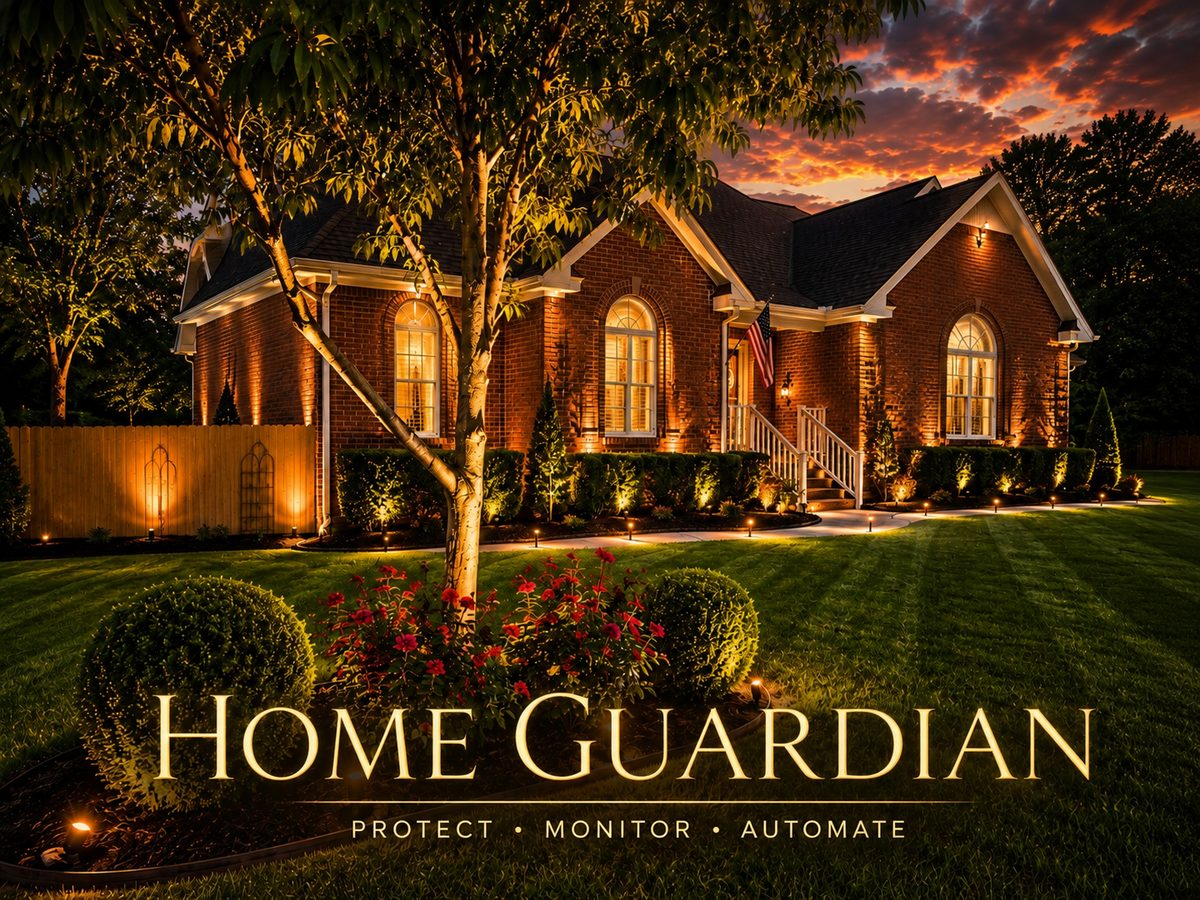
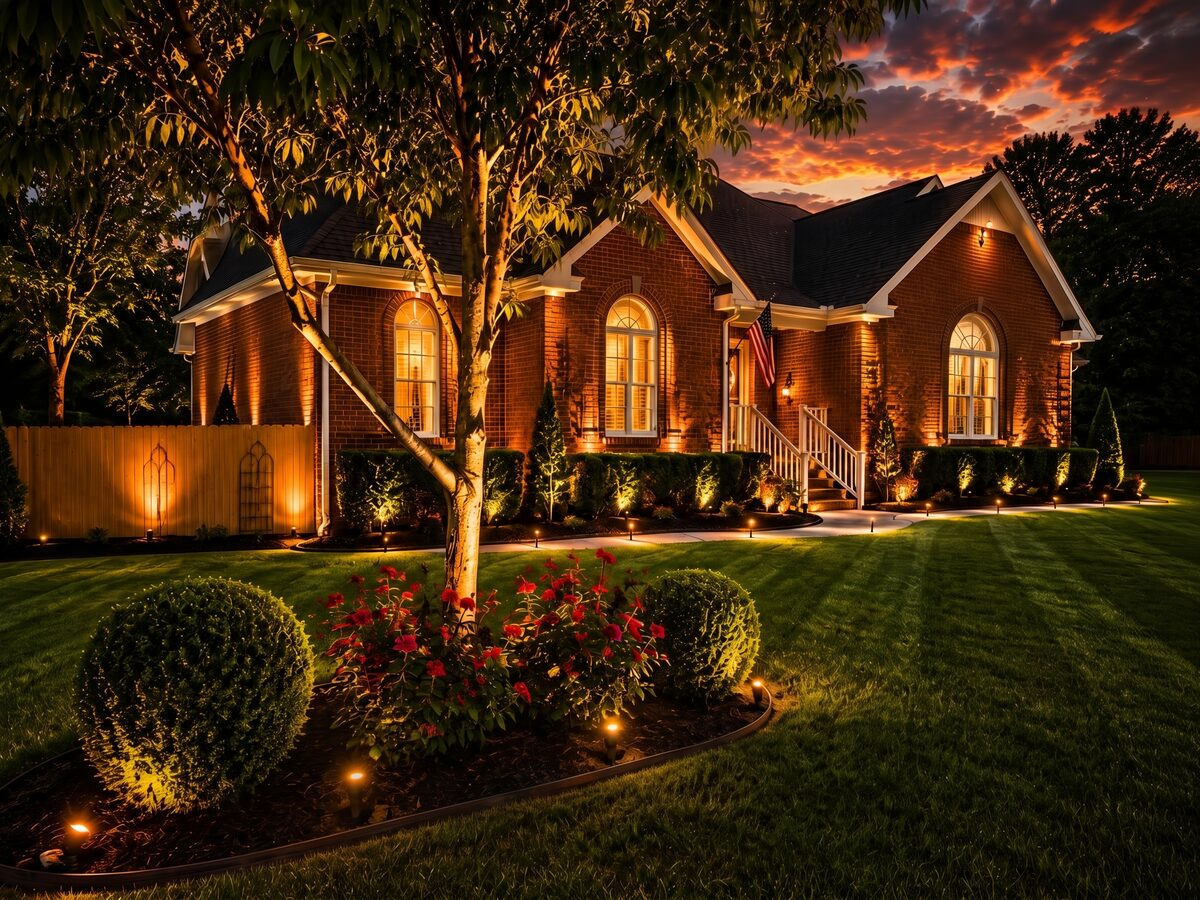
Strip the fake marketing overlays from five section heroes
Jeff: "I hate those logos that are on the picture. I don't mind the text
but it looks awful with them right next to the real icons."

Same root cause as the utility photos. Every one of these heroes was an AI
marketing mock-up with a title, a tagline and a row of fake capability
icons printed into the image -- and those fake icons sat right next to the
app's real ones, which is what looked wrong.

Regenerated through the Gemini image-edit API, real scene kept, overlays
removed:

  - irrigation: title, tagline and the five-icon strip gone; the stock
    model removed and replaced with lawn. Valve box, sprinklers, fire pit
    and sunset kept. Right side now clean and open.
  - yard: "Yard Command Center", subtitle and the four circled icons gone;
    stock model removed. The red Toro TimeMaster, striped lawn, fire pit
    and sun flare kept.
  - guardian: "HOME GUARDIAN / PROTECT MONITOR AUTOMATE" gone. Lit brick
    house, flag, uplighting, flower bed and sunset kept exactly.
  - weather: title, tagline and the six-icon strip gone. Scene otherwise
    untouched, per Jeff -- he likes that picture and its live temperature
    overlay. Ambient Weather station, sprinklers, fire pit all kept.
  - car: the pasted Mercedes star and "GLE 350 4MATIC" lettering gone, and
    both stock models removed so the cabin is empty. Clean GLE cockpit at
    night, real steering-wheel badge intact, city lights through the
    windscreen. Far better surface for vehicle data.
[…]

diff --git a/service-worker.js b/service-worker.js
@@ -1,4 +1,4 @@
-const CACHE_NAME = "hcc-v33";
+const CACHE_NAME = "hcc-v34";
 const CRITICAL_ASSETS = [
   "./",
   "./index.html",
